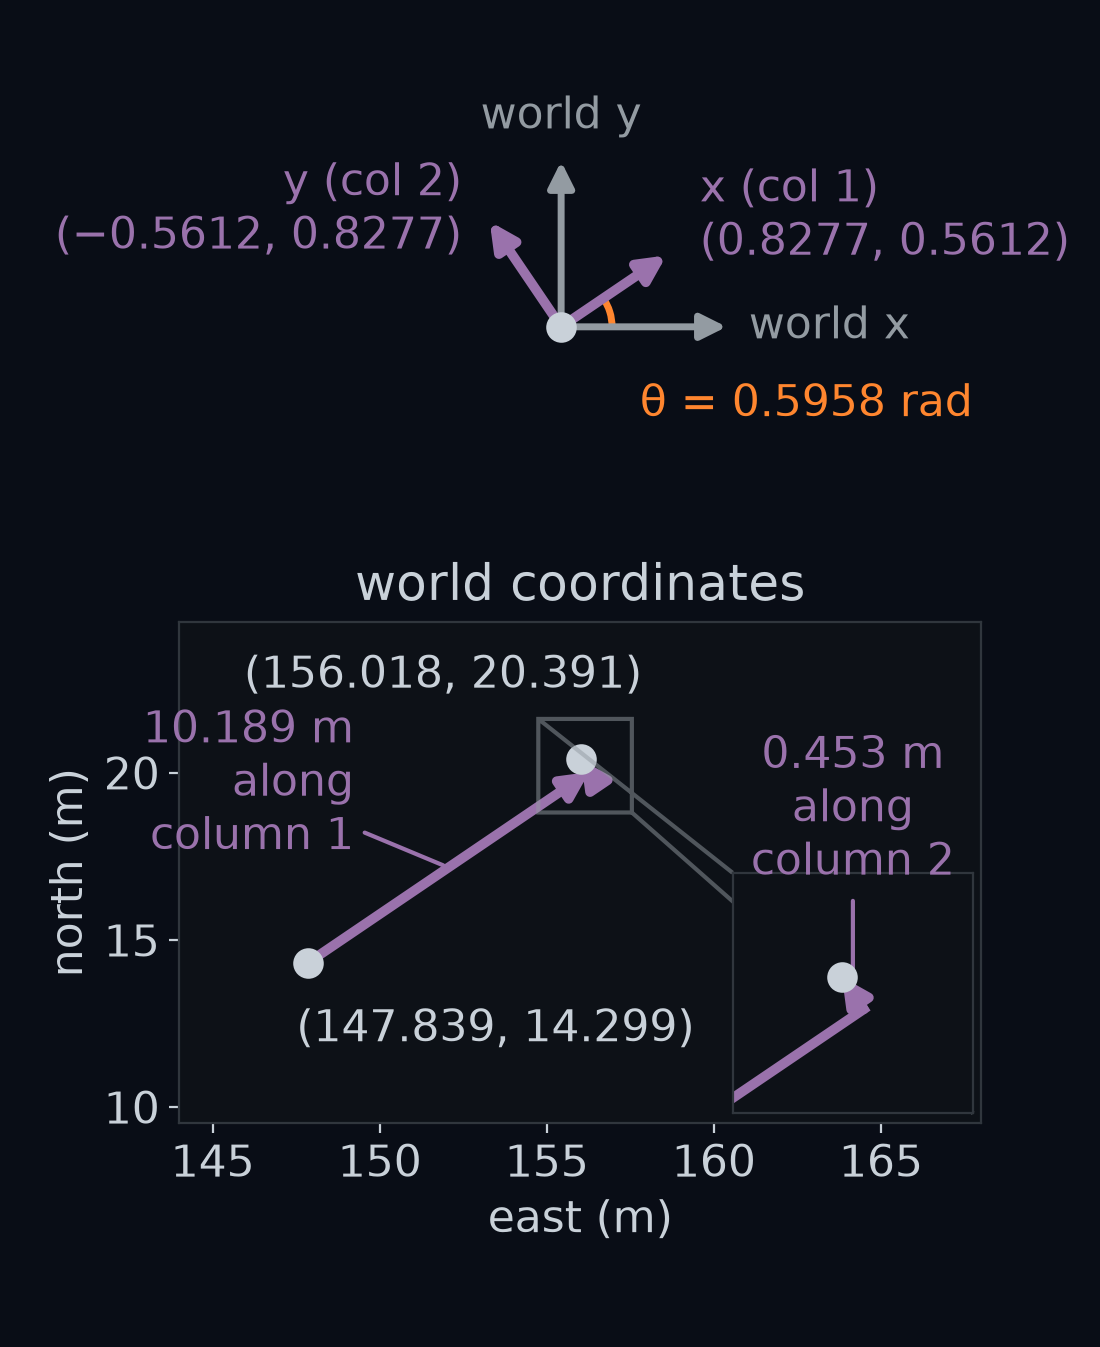
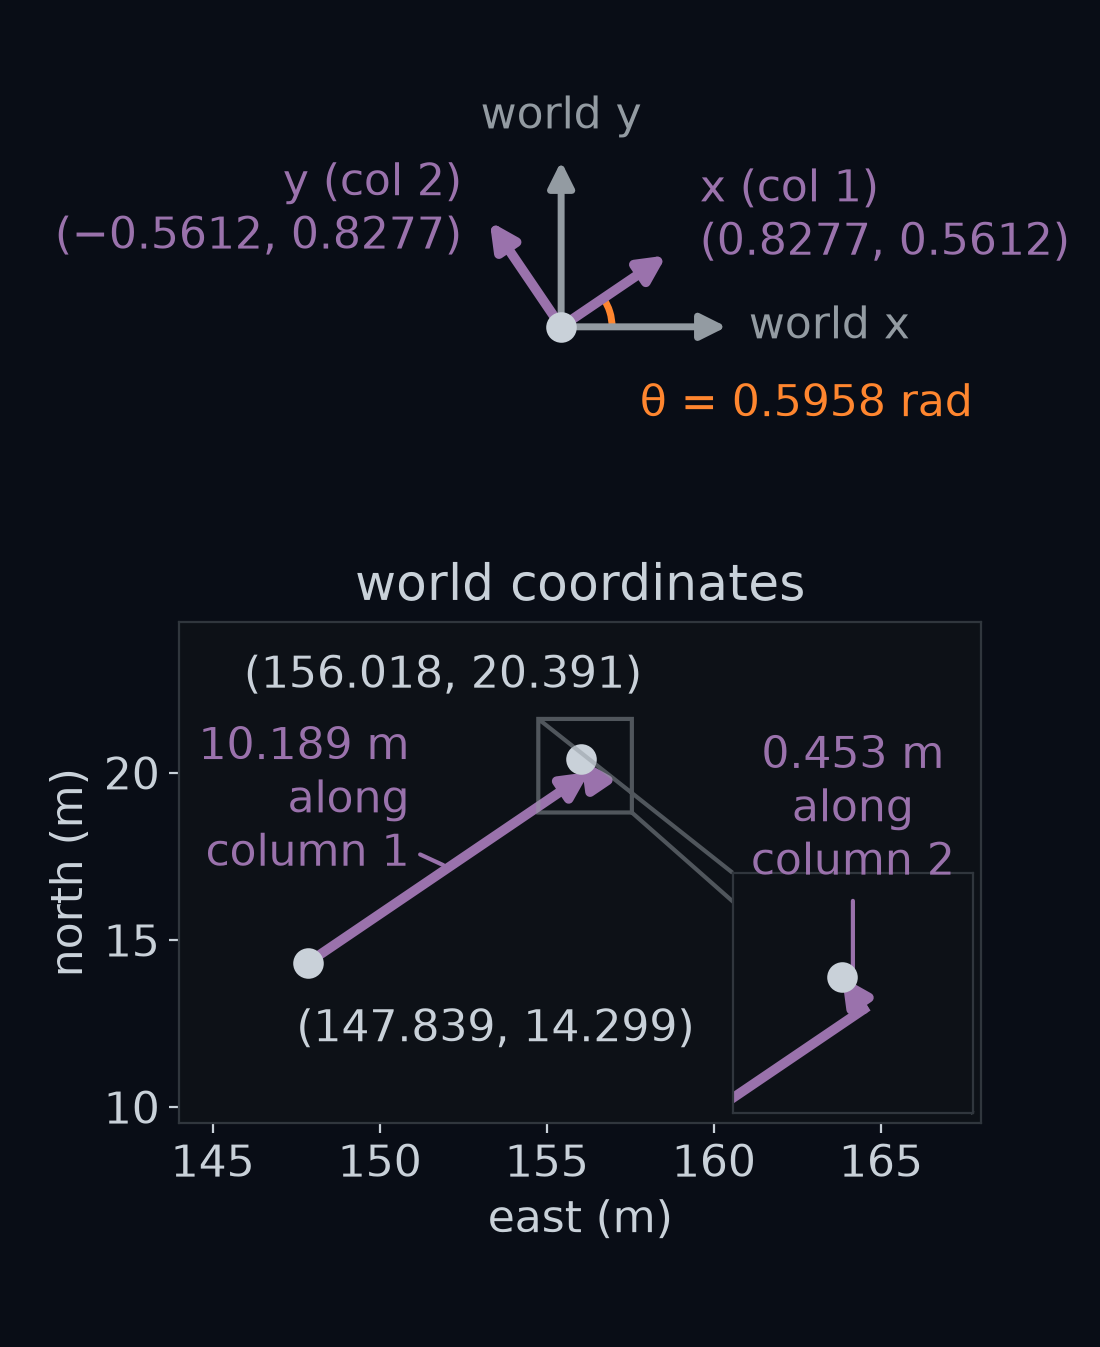
1.1.2: two label overlaps the full suite found (columns_axes, e_vs_s)

Changed region(s): [[0.1236, 0.5301, 0.3709, 0.6548]]

diff --git a/course/1.1.2-the-view-from-the-drivers-seat/figures.py b/course/1.1.2-the-view-from-the-drivers-seat/figures.py
@@ -307,7 +307,7 @@ def _columns_axes(d, path):
     bottom.plot(*end, "o", color=TEXT, markersize=10, zorder=4)
     say(bottom, (x, y), f"({x:.3f}, {y:.3f})", dx=-4, dy=-24, ha="left")
     say(bottom, tuple(end), f"({end[0]:.3f}, {end[1]:.3f})", dx=22, dy=30, ha="right")
-    say(bottom, tuple((np.array([x, y]) + corner) / 2), f"{fwd:.3f} m\nalong\ncolumn 1", dx=-34, dy=30, ha="right", colour=EGO, arrow=True)
+    say(bottom, tuple((np.array([x, y]) + corner) / 2), f"{fwd:.3f} m\nalong\ncolumn 1", dx=-14, dy=24, ha="right", colour=EGO, arrow=True)
     bottom.set(xlim=bot_x, ylim=bot_y, xlabel="east (m)", ylabel="north (m)", title="world coordinates")
     bottom.set_aspect("equal", adjustable="box")
     width = 0.30
@@ -583,7 +583,7 @@ def _e_vs_s(d, path):
     bottom.set_ylim(-2.4, 2.3)
     bottom.set_xlabel("distance along the road (m)")
     bottom.axvspan(100, 165, color=FAINT, alpha=0.35, lw=0)
-    say(bottom, (132, -0.9), "first bend", colour=TEXT)
+    say(bottom, (132, -0.45), "first bend", colour=TEXT)
     for ax, scen in ((top, "straight"), (bottom, "gentle")):
         tel = d.tels[("right", scen)]
         k = int(np.argmin(np.abs(tel.progress_m - 160)))
